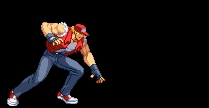
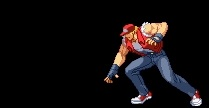
hero

Changed region(s): [[0.0287, 0.1944, 0.9761, 1.0]]

diff --git a/hero.py b/hero.py
@@ -93,15 +93,15 @@ class Hero():
             #受伤的优先级最高, 要更新图形
             self.hurt_image()
         elif self.status == self.settings.hero_status["attack"] :
-            #攻击优先级次之
+            #攻击动画
             self.attack_image()
         elif self.status == self.settings.hero_status["jump_attack"] :
-            #跳起攻击
+            #跳起攻击动画
             self.jump_attack_image()
         elif self.status == self.settings.hero_status["squat_attack"] :
-            #下蹲攻击
+            #下蹲攻击动画
             self.squat_attack_image()
-        elif self.attacking : #当按下攻击键时
+        elif self.attacking : #当按下攻击键时，进入攻击状态
             self.attacking = False
             if self.status == self.settings.hero_status["jump"] :
                 self.status = self.settings.hero_status["jump_attack"]
@@ -116,26 +116,36 @@ class Hero():
         elif self.status == self.settings.hero_status["jump"] :
             # 跳起
             self.jump_image()
+            """
         elif self.status == self.settings.hero_status["fall"] :
             # 掉落，第三
             pass
+            """
+        elif self.status == self.settings.hero_status["squat_move"]:
+            #蹲着移动
+            self.squat_move()
+        elif self.squating :
+            #下蹲键, 按着蹲下键时，无法跳跃，即按跳起键无效。当此时有移动按键时，将变成蹲着移动
+            self.status = self.settings.hero_status["squat"]
+            self.squat_image()
         elif self.jumping :
             #跳跃键
             self.status = self.settings.hero_status["jump"]
-        elif self.squating :
-            #下蹲键
-            self.status = self.settings.hero_status["squat"]
-            self.squat_image()
+            """
         elif self.falling :
             #self.falling 应该改成判断self高度
             pass
-        elif self.status == self.settings.hero_status["squat_move"]:
-            #蹲着移动
-            pass
-        elif self.status == self.settings.hero_status["move"] or self.moving_left != self.moving_right:
+            """
+        elif self.status == self.settings.hero_status["move"] :
             # 最后是移动
             self.move_image()
-            pass
+        elif self.moving_left != self.moving_right :
+            # 进入移动状态
+            self.status = self.settings.hero_status["move"]
+            if self.moving_left == True:
+                self.direction = self.settings.hero_direction["left"]
+            elif self.moving_right == True:
+                self.direction = self.settings.hero_direction["right"]
         else : #self.status == self.settings.hero_status["stay"]
             # 静止状态
             self.status = self.settings.hero_status["stay"]
@@ -199,8 +209,14 @@ class Hero():
         self.display_frame(self.jump_size)
 
     def squat_image(self):
-        #下蹲动画
-        if self.direction == self.settings.hero_direction["left"]:
+        #下蹲动画,有方向时变成滚动了
+        if self.moving_left != self.moving_right :
+            self.status = self.settings.hero_status["squat_move"]
+            if self.moving_left == True:
+                self.direction = self.settings.hero_direction["left"]
+            elif self.moving_right == True:
+                self.direction = self.settings.hero_direction["right"]
+        elif self.direction == self.settings.hero_direction["left"]:
             self.change_image(self.squat_left_image)
         elif self.direction == self.settings.hero_direction["right"]:
             self.change_image(self.squat_right_image)
@@ -213,20 +229,22 @@ class Hero():
         #移动动画, 如果是状态发生改变
         self.velocityx = self.speedx * self.direction
         self.velocityy = -self.speedy
-        if self.status == self.settings.hero_status["move"]:
-            #动画未播放完整，继续动画
-            if self.direction == self.settings.hero_direction["left"]:
-                self.change_image(self.move_left_images[self.image_order])
-            elif self.direction == self.settings.hero_direction["right"]:
-                self.change_image(self.move_right_images[self.image_order])
-            self.display_frame(self.move_size)
-        if self.status == self.settings.hero_status["stay"] and self.moving_left != self.moving_right:
-            #由stay状态变成移动状态
-            self.status = self.settings.hero_status["move"]
-            if self.moving_left == True:
-                self.direction = self.settings.hero_direction["left"]
-            elif self.moving_right == True:
-                self.direction = self.settings.hero_direction["right"]
+        #动画未播放完整，继续动画
+        if self.direction == self.settings.hero_direction["left"]:
+            self.change_image(self.move_left_images[self.image_order])
+        elif self.direction == self.settings.hero_direction["right"]:
+            self.change_image(self.move_right_images[self.image_order])
+        self.display_frame(self.move_size)
+
+    def squat_move(self):
+        self.velocityx = 2 * self.speedx * self.direction
+        self.velocityy = -self.speedy
+        #动画未播放完整，继续动画
+        if self.direction == self.settings.hero_direction["left"]:
+            self.change_image(self.squat_move_left_images[self.image_order])
+        elif self.direction == self.settings.hero_direction["right"]:
+            self.change_image(self.squat_move_right_images[self.image_order])
+        self.display_frame(self.squat_move_size)
 
     def stay_image(self):
         if self.direction == self.settings.hero_direction["left"]:
